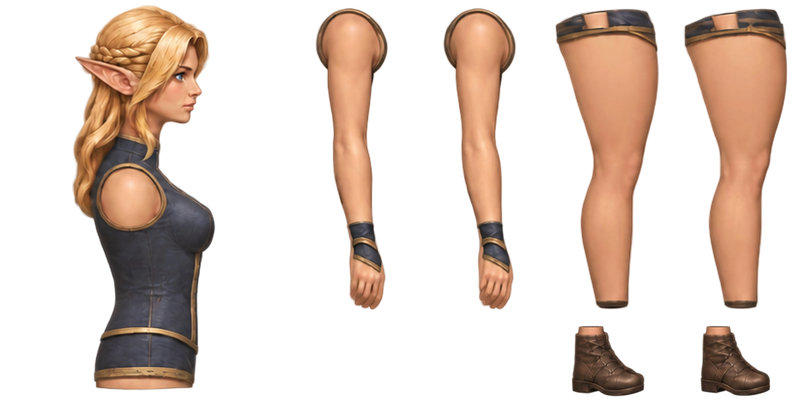
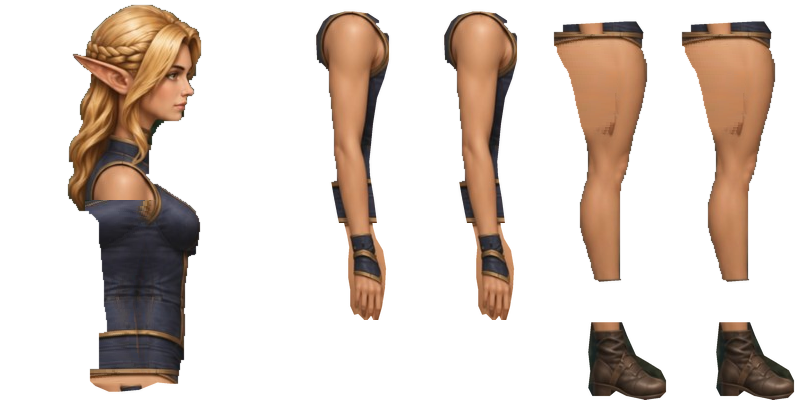
Restore v0.3.38 elf sprites and renderer for v0.3.41

diff --git a/app/src/main/java/com/cosmerearchives/dndroguelike/ElfBaseArt.java b/app/src/main/java/com/cosmerearchives/dndroguelike/ElfBaseArt.java
@@ -4,11 +4,8 @@ import android.content.Context;
 import android.graphics.Bitmap;
 import android.graphics.BitmapFactory;
 import android.graphics.Canvas;
-import android.graphics.LinearGradient;
 import android.graphics.Paint;
-import android.graphics.Path;
 import android.graphics.RectF;
-import android.graphics.Shader;
 import java.io.IOException;
 import java.io.InputStream;
 
@@ -26,22 +23,22 @@ final class ElfBaseArt {
         {{56,45,43,142,30,232,146,666}, {46,45,53,142,70,232,300,666},
          {60,45,60,161,57,272,174,847}, {56,45,49,161,50,272,256,847}},
         {{65,46,61,145,73,235,183,661}, {65,46,61,145,73,235,183,661},
-         {57,41,66,163,68,292,205,847}, {57,41,66,163,68,292,205,847}},
+         {57,41,66,163,62,273,205,847}, {57,41,66,163,62,273,205,847}},
         {{86,43,74,136,63,221,111,670}, {74,42,85,136,101,221,267,670},
          {56,49,62,160,56,273,179,847}, {48,49,51,160,56,273,260,847}},
         {{64,46,61,145,73,234,184,659}, {64,46,61,145,73,234,184,659},
-         {60,39,65,162,68,292,204,847}, {60,39,65,162,68,292,204,847}}
+         {60,39,65,162,63,273,204,847}, {60,39,65,162,63,273,204,847}}
     };
 
     private static final int[][][] MALE = {
-        {{70,47,55,138,45,227,128,626}, {57,47,74,136,84,226,296,626},
+        {{56,47,42,138,29,227,135,626}, {43,47,61,136,71,226,306,626},
          {55,38,51,137,48,275,179,841}, {52,39,57,135,55,275,255,841}},
-        {{63,42,59,143,75,225,192,630}, {63,42,59,143,75,225,192,630},
-         {49,38,54,138,66,295,227,842}, {49,38,54,138,66,295,227,842}},
-        {{72,42,57,136,43,222,121,631}, {57,41,72,137,85,222,283,631},
+        {{44,42,40,143,62,225,220,630}, {44,42,40,143,62,225,220,630},
+         {49,38,54,138,46,274,227,842}, {49,38,54,138,46,274,227,842}},
+        {{86,42,69,136,64,222,108,631}, {77,41,95,137,107,222,270,631},
          {57,40,58,141,51,275,177,841}, {51,40,55,139,54,275,256,841}},
-        {{63,42,59,143,75,225,192,630}, {63,42,59,143,75,225,192,630},
-         {50,38,55,139,66,295,226,842}, {50,38,55,139,66,295,226,842}}
+        {{44,42,40,143,62,225,220,630}, {44,42,40,143,62,225,220,630},
+         {50,38,55,139,47,274,226,842}, {50,38,55,139,47,274,226,842}}
     };
 
     private final Facing[] facings = new Facing[4];
@@ -62,7 +59,7 @@ final class ElfBaseArt {
                 Bitmap atlas = BitmapFactory.decodeStream(stream);
                 if (atlas != null && atlas.getWidth() == BODY_WIDTH + 4 * WIDTH
                     && atlas.getHeight() == ATLAS_HEIGHT) {
-                    facings[facing] = new Facing(atlas, registrations[facing], facing, male);
+                    facings[facing] = new Facing(atlas, registrations[facing], facing);
                 }
             } catch (IOException ignored) {
                 // The segmented renderer remains available for missing artwork.
@@ -147,7 +144,7 @@ final class ElfBaseArt {
             float hipY = pose.hipY - rest.hipY;
             kneeY = hipY + (kneeY - hipY) * .55f;
         }
-        limb.pose(pelvisX, pelvisY, pose.kneeX - rest.kneeX + kneeSway, kneeY, footX + view.ankleFit, footY);
+        limb.pose(pelvisX, pelvisY, pose.kneeX - rest.kneeX + kneeSway, kneeY, footX, footY);
         limb.draw(canvas, paint, limb.bitmap);
 
         // Keep the boot grounded and rigid while the calf deforms around the ankle.
@@ -163,14 +160,8 @@ final class ElfBaseArt {
         final Bitmap[] boots = new Bitmap[2];
         final RigLegPose.Pose[] rest = new RigLegPose.Pose[2];
 
-        final float ankleFit;
-
-        Facing(Bitmap atlas, int[][] registration, int facing, boolean male) {
-            body = assembleBody(atlas, facing, male);
-            // Profile boots have a cuff behind the center of their image cell.
-            boolean profile = RigViewProfile.isSide(facing);
-            int cuffX = male ? 47 : 48;
-            ankleFit = profile ? (cuffX - registration[2][4]) * UNIT : 0f;
+        Facing(Bitmap atlas, int[][] registration, int facing) {
+            body = Bitmap.createBitmap(atlas, 0, 0, BODY_WIDTH, ATLAS_HEIGHT);
             // The two independently painted profiles have different overlap at the hem.
             float rearHipFit = facing == 1 ? 1.65f : facing == 3 ? .85f : 0f;
             for (int i = 0; i < limbs.length; i++) {
@@ -185,73 +176,6 @@ final class ElfBaseArt {
                     : RigLegPose.solve(0f, i, facing, 0f, 0f);
             }
         }
-    }
-
-    private static Bitmap assembleBody(Bitmap atlas, int facing, boolean male) {
-        Bitmap body = Bitmap.createBitmap(atlas, 0, 0, BODY_WIDTH, ATLAS_HEIGHT);
-        boolean profile = RigViewProfile.isSide(facing);
-        Bitmap assembled = Bitmap.createBitmap(BODY_WIDTH, ATLAS_HEIGHT, Bitmap.Config.ARGB_8888);
-        Canvas canvas = new Canvas(assembled);
-        Paint paint = new Paint(Paint.ANTI_ALIAS_FLAG | Paint.FILTER_BITMAP_FLAG);
-        RectF bounds = new RectF(0, 0, BODY_WIDTH, ATLAS_HEIGHT);
-        if (profile) {
-            canvas.drawBitmap(body, null, bounds, paint);
-            // Keep the armhole trim and shade the opening behind the moving arm.
-            float top = male ? 151f : 164f;
-            float bottom = male ? 210f : 226f;
-            float center = male ? 128f : facing == 1 ? 133f : 135f;
-            Path opening = new Path();
-            opening.moveTo(center, top);
-            opening.cubicTo(center - 18f, top, center - 31f, top + 18f,
-                center - 31f, top + 37f);
-            opening.cubicTo(center - 31f, bottom - 9f, center - 16f, bottom, center, bottom);
-            opening.cubicTo(center + 18f, bottom, center + 31f, bottom - 9f,
-                center + 31f, top + 37f);
-            opening.cubicTo(center + 31f, top + 18f, center + 17f, top, center, top);
-            opening.close();
-            paint.setShader(new LinearGradient(center, top, center, bottom,
-                0xFF46434C, 0xFF24252E, Shader.TileMode.CLAMP));
-            canvas.drawPath(opening, paint);
-        } else {
-            canvas.clipPath(vestOutline(male));
-            canvas.drawBitmap(body, null, bounds, paint);
-        }
-        return assembled;
-    }
-
-    private static Path vestOutline(boolean male) {
-        // The body cells include remnants of the shoulders outside the vest.
-        Path vest = new Path();
-        vest.moveTo(0f, 0f);
-        if (male) {
-            vest.lineTo(0f, 142f);
-            vest.lineTo(76f, 142f);
-            vest.cubicTo(88f, 156f, 92f, 181f, 82f, 203f);
-            vest.lineTo(71f, 213f);
-            vest.lineTo(0f, 213f);
-            vest.lineTo(0f, ATLAS_HEIGHT);
-            vest.lineTo(BODY_WIDTH, ATLAS_HEIGHT);
-            vest.lineTo(BODY_WIDTH, 213f);
-            vest.lineTo(218f, 213f);
-            vest.lineTo(206f, 203f);
-            vest.cubicTo(196f, 181f, 202f, 156f, 213f, 142f);
-            vest.lineTo(BODY_WIDTH, 142f);
-        } else {
-            // Start below the hair and follow the diagonal edge of each strap.
-            vest.lineTo(0f, 164f);
-            vest.lineTo(83f, 164f);
-            vest.cubicTo(90f, 172f, 97f, 185f, 96f, 202f);
-            vest.lineTo(0f, 208f);
-            vest.lineTo(0f, ATLAS_HEIGHT);
-            vest.lineTo(BODY_WIDTH, ATLAS_HEIGHT);
-            vest.lineTo(BODY_WIDTH, 208f);
-            vest.lineTo(192f, 202f);
-            vest.cubicTo(191f, 185f, 199f, 172f, 207f, 164f);
-            vest.lineTo(BODY_WIDTH, 164f);
-        }
-        vest.lineTo(BODY_WIDTH, 0f);
-        vest.close();
-        return vest;
     }
 
     private static final class Sprite {
